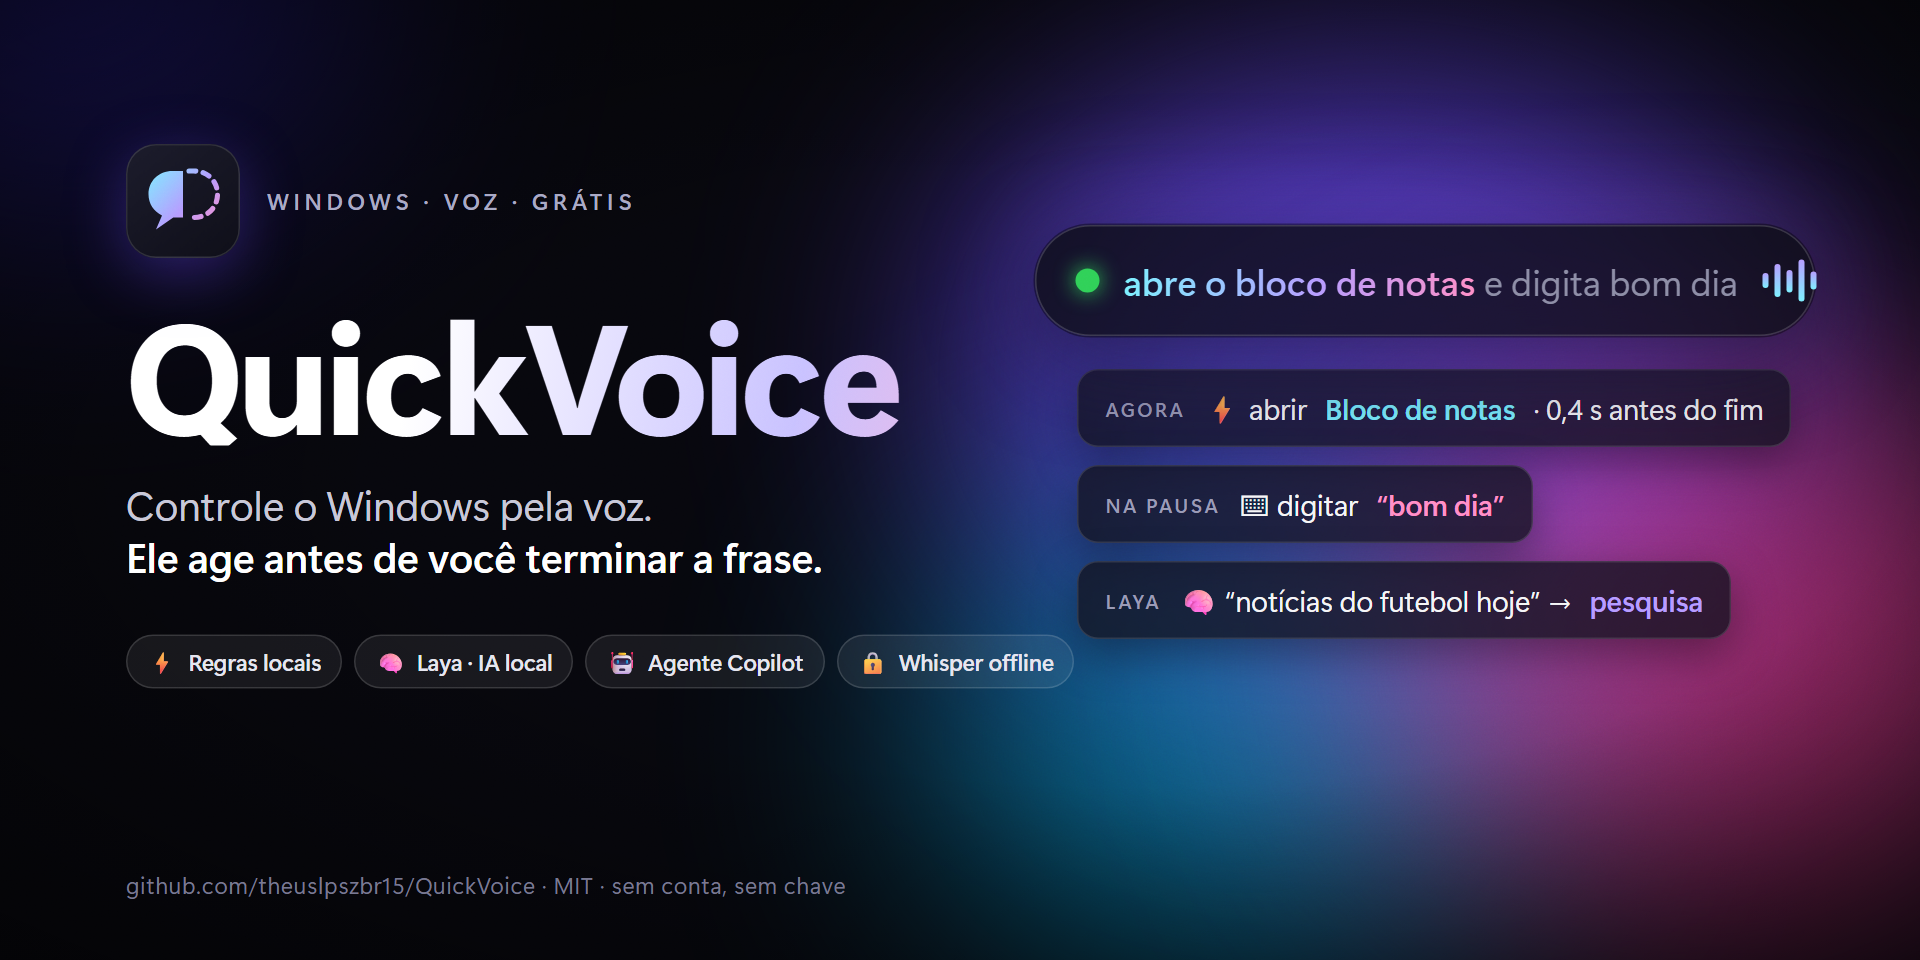
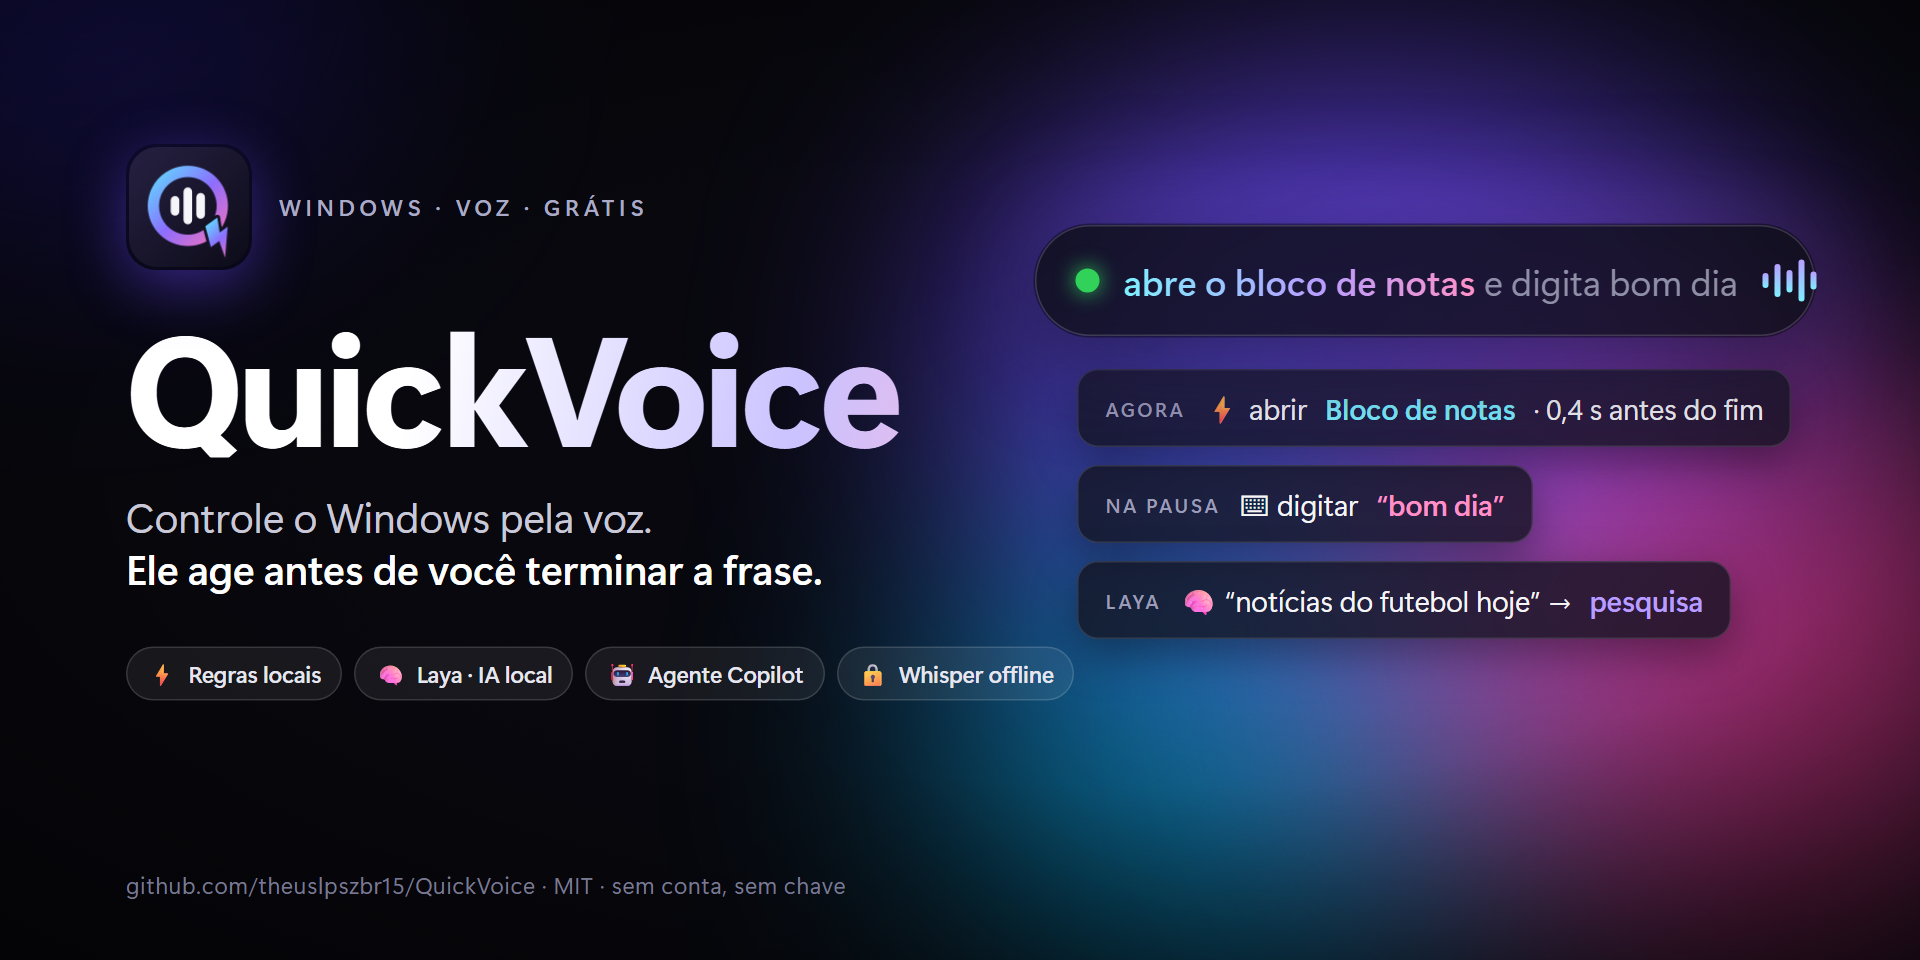
Ícone novo e próprio: Q de onda de voz com raio (v1.5.2)

diff --git a/src/QuickVoice/AppController.cs b/src/QuickVoice/AppController.cs
@@ -277,7 +277,7 @@ internal sealed class AppController(Session session, BarModel model, Options opt
         return icon;
     }
 
-    /// <summary>The speech bubble, half said and half dashed; a green dot while listening.</summary>
+    /// <summary>The app icon; a green dot while listening.</summary>
     private static Drawing.Icon TrayIcon(bool listening)
     {
         var size = Forms.SystemInformation.SmallIconSize;

diff --git a/README.md b/README.md
@@ -159,7 +159,7 @@ Uma versão nova sai sozinha ao criar uma tag `v*` (`git tag v1.2.0; git push --
 [`installer/QuickVoice.iss`](installer/QuickVoice.iss)) e o `.zip`, e publica em Releases. Todo push roda
 build e testes no [CI](.github/workflows/ci.yml).
 
-O ícone (balão de fala meio dito, meio tracejado, como o do original) sai de `scripts/make-icon.ps1`,
+O ícone (um "Q" de onda de voz com barras de nível e um raio na cauda) sai de `scripts/make-icon.ps1`,
 que gera `src/QuickVoice/app.ico`.
 
 ## Como ele decide
